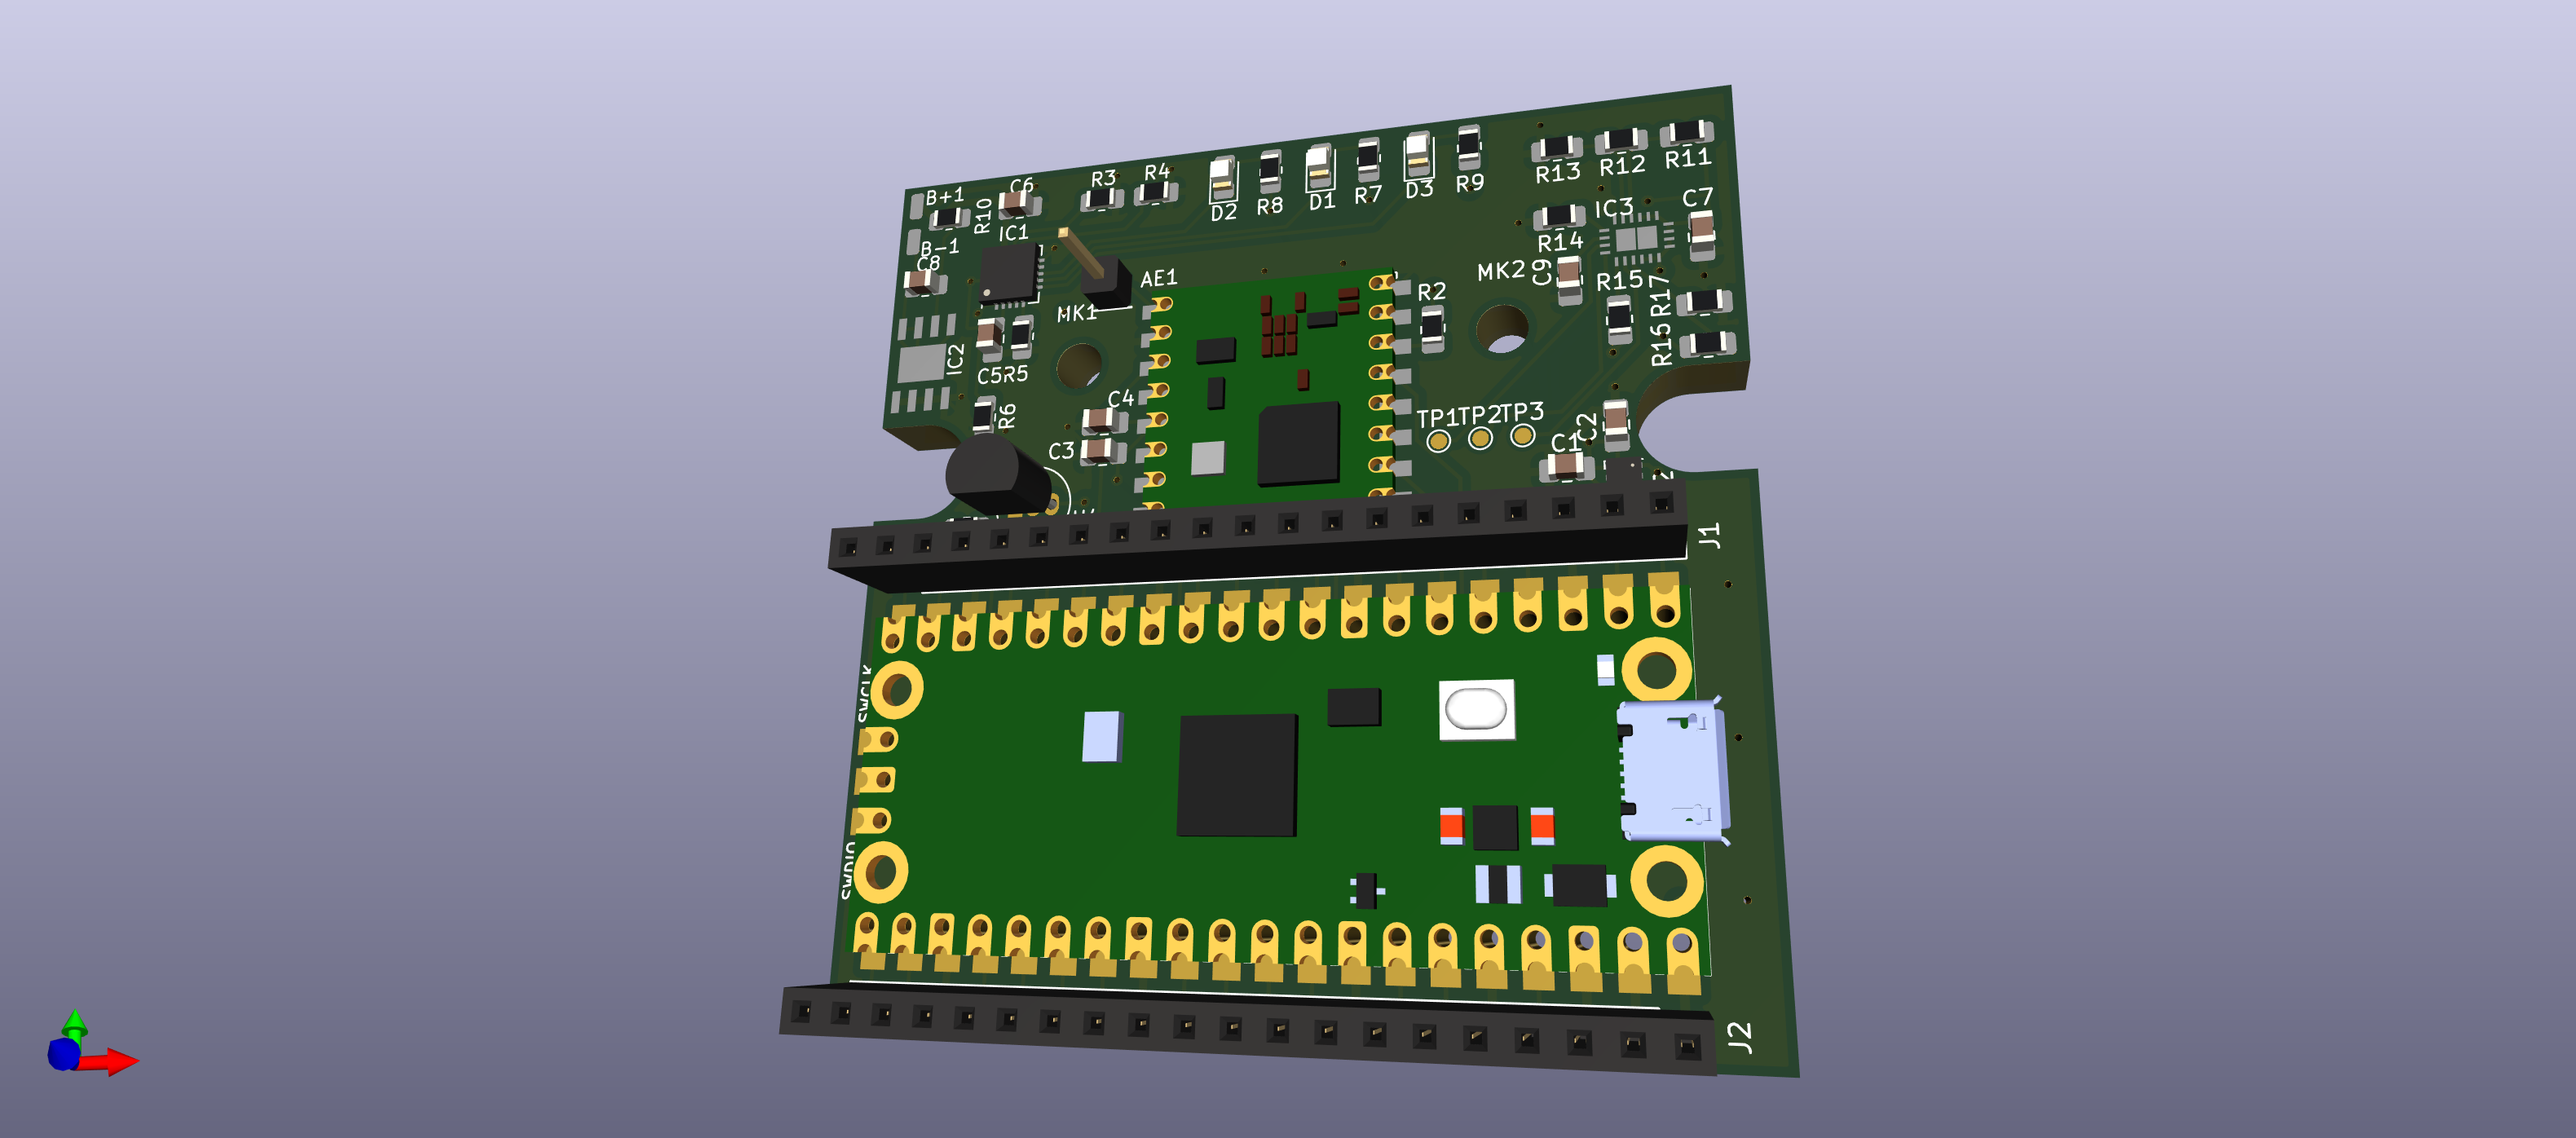
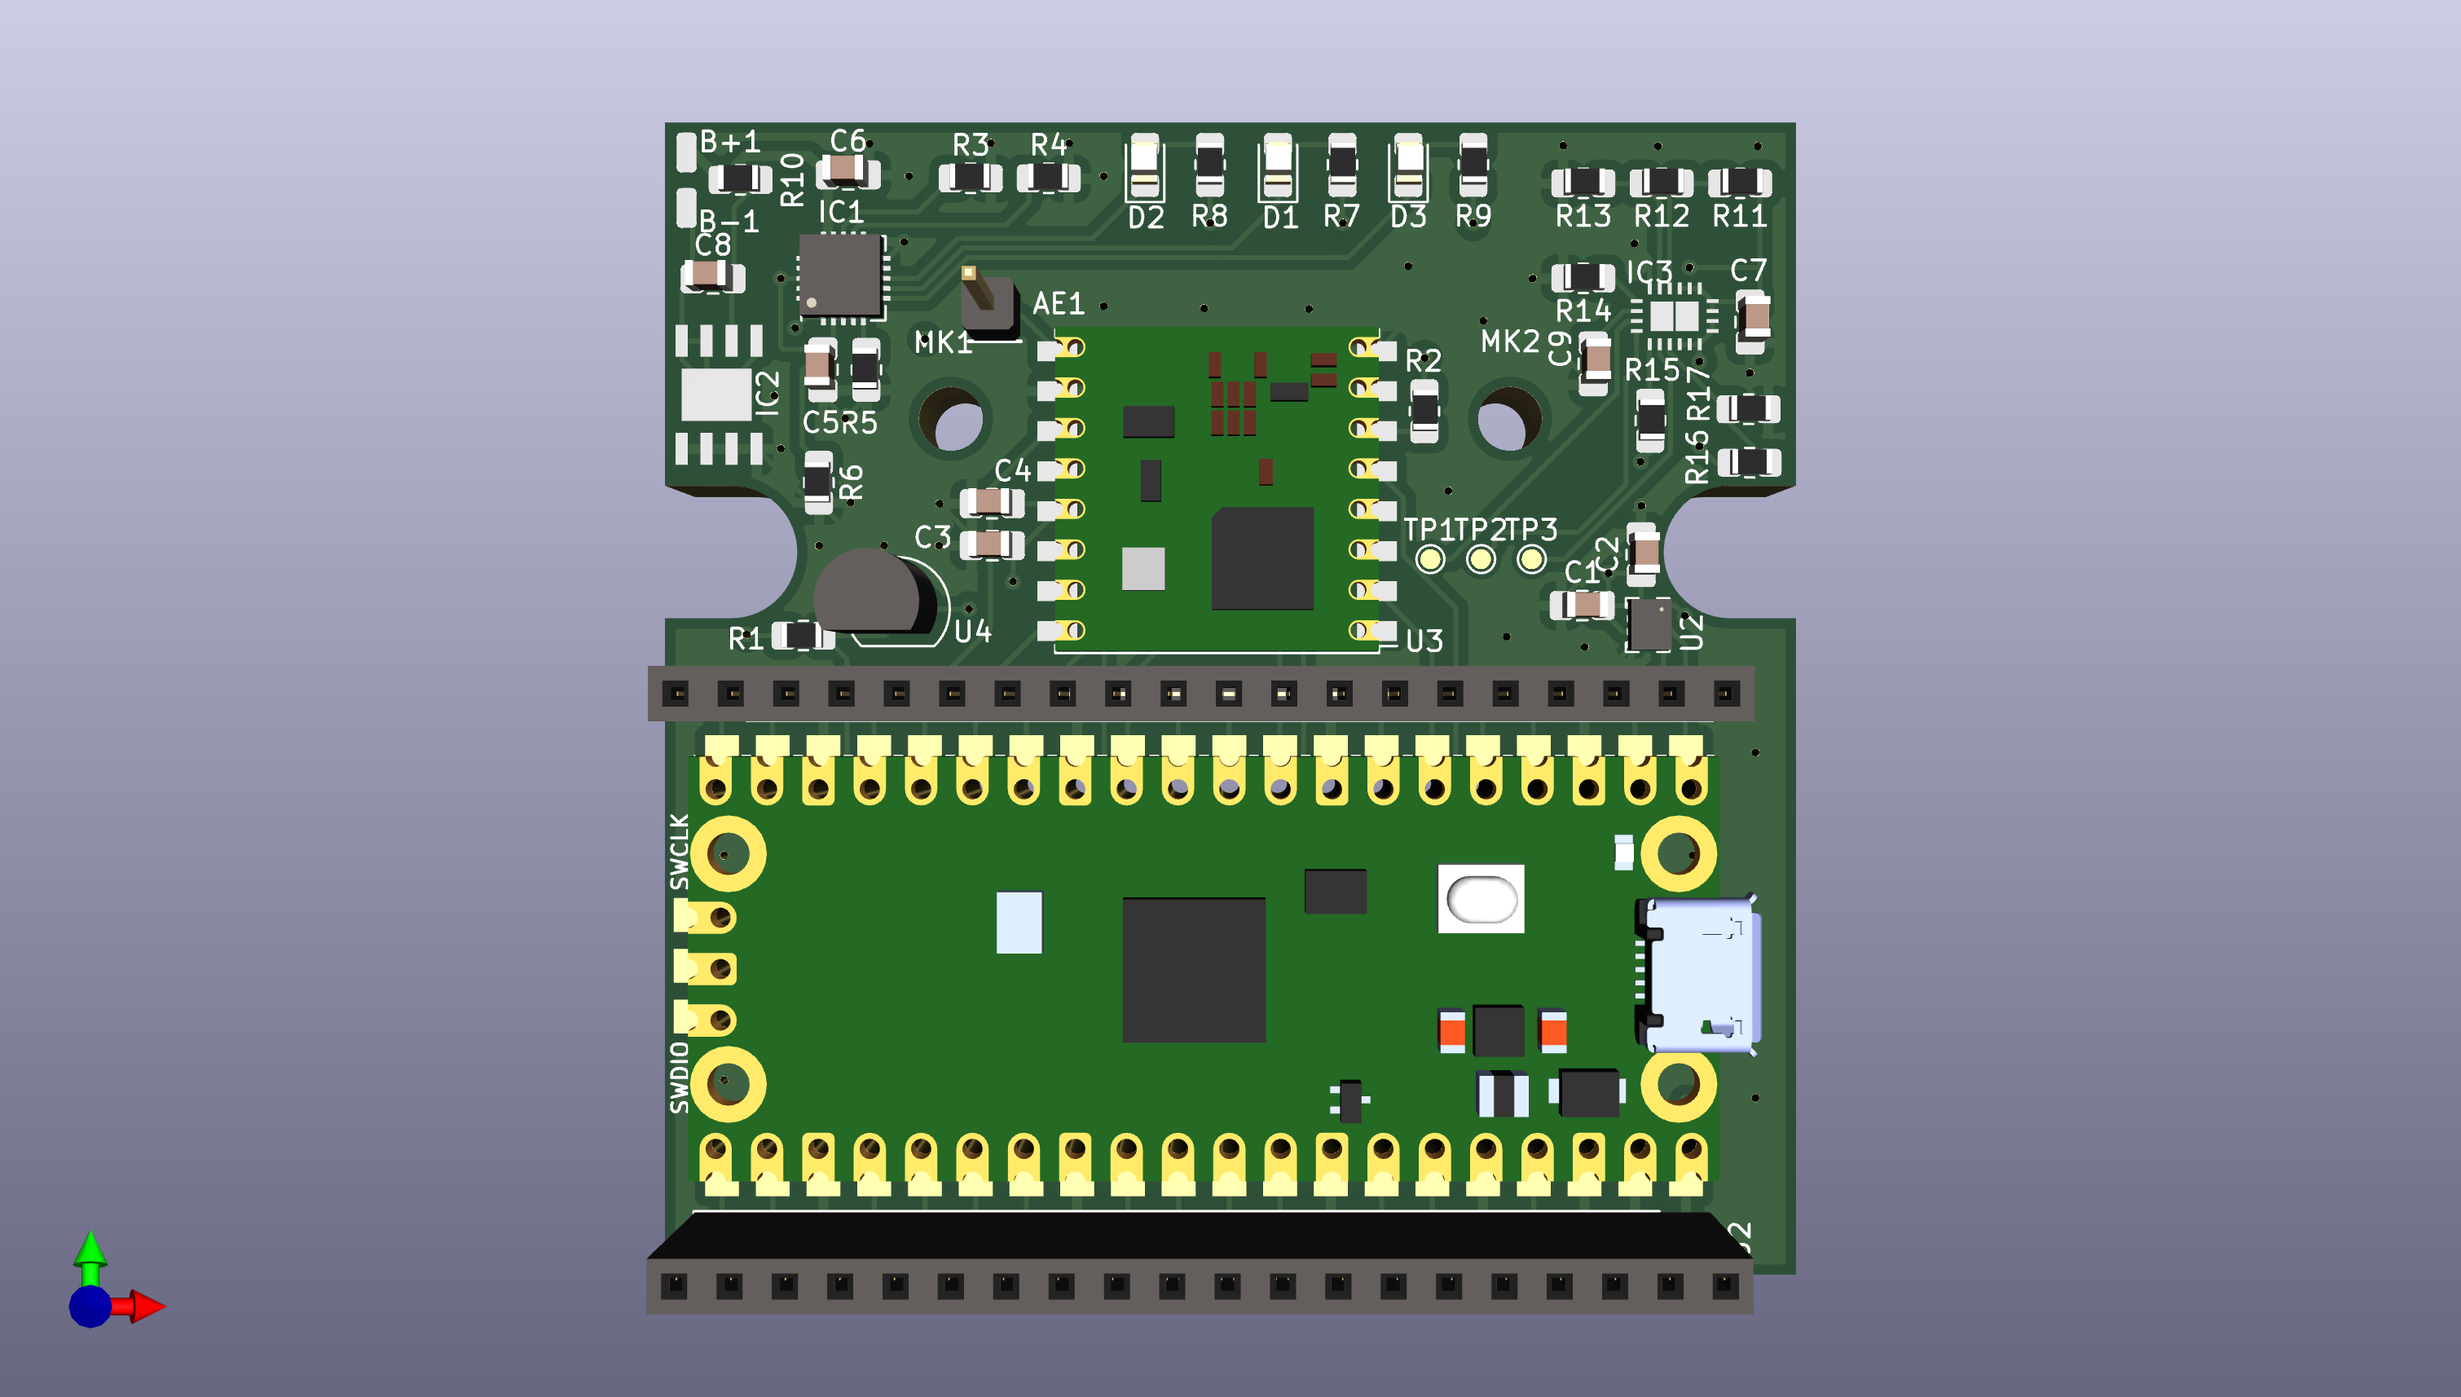
new 3D rendering

Changed region(s): [[0.249, 0.0616, 0.747, 0.9549], [0.0, 0.8933, 0.0623, 0.9549]]

diff --git a/README.md b/README.md
@@ -2,4 +2,4 @@
 
 LoRa Node based on Raspberry Pi Pico and LoRa board RFM95
 
-![Board rendering](pico_LoRa.png)
+![Board rendering](Pico_LoRa.png)
